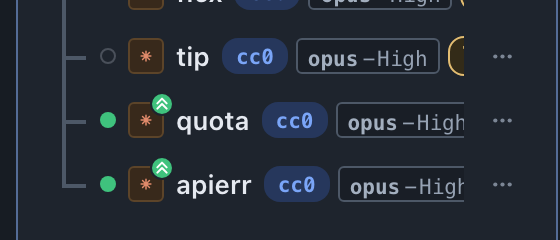
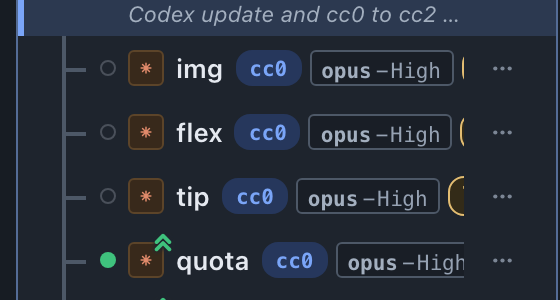
fix(web): 子 agent 列整組一起左右滑；更新記號只留綠色 chevron
使用者：一列一列各自滑看不出整組資訊；記號不要底色圓。同組列的 scrollLeft 同步，
滾輪橫捲在容器上統一分配，短列不會先撞底拖住長列。

Claude-Session: https://claude.ai/code/session_01DbWMWs7JupGCqnYfVQYsUr

diff --git a/web/src/lib/kidsScroll.ts b/web/src/lib/kidsScroll.ts
@@ -1,0 +1,34 @@
+/**
+ * 子 agent 列的左右滑要「整組一起」（2026-09-10 使用者）：每列自己是一個捲動區（燈號、樹線、
+ * 選單鈕才能固定不動），但捲動量在同一個 `.bot-kids` 裡同步。
+ *
+ * - 手指／捲軸捲某一列 → `syncKidsScroll` 把同組其他列推到同一個 scrollLeft。
+ * - 滾輪橫捲在容器上攔下來自己分配（`wheelKidsScroll`）：不然滾在較短的那列會先撞到它的
+ *   底、拖著整組一起停，看不完最長那列。
+ */
+const SEL = '.bot-row.compact > .bot-main'
+
+export function syncKidsScroll(e: { currentTarget: HTMLElement }) {
+  const me = e.currentTarget
+  const kids = me.closest('.bot-kids')
+  if (!kids) return
+  const x = me.scrollLeft
+  for (const el of kids.querySelectorAll<HTMLElement>(SEL)) {
+    if (el !== me && Math.abs(el.scrollLeft - x) > 0.5) el.scrollLeft = x
+  }
+}
+
+export function wheelKidsScroll(e: { currentTarget: HTMLElement; deltaX: number; deltaY: number; shiftKey: boolean; preventDefault: () => void }) {
+  // 只接橫向：shift+滾輪在 mac 會給 deltaX，trackpad 橫滑也是 deltaX。直向留給側欄自己捲。
+  const dx = e.deltaX !== 0 ? e.deltaX : e.shiftKey ? e.deltaY : 0
+  if (dx === 0) return
+  const rows = [...e.currentTarget.querySelectorAll<HTMLElement>(SEL)]
+  if (rows.length === 0) return
+  const max = Math.max(...rows.map((el) => el.scrollWidth - el.clientWidth))
+  if (max <= 0) return
+  const cur = Math.max(...rows.map((el) => el.scrollLeft))
+  const next = Math.min(max, Math.max(0, cur + dx))
+  if (next === cur) return
+  e.preventDefault()
+  for (const el of rows) el.scrollLeft = next
+}

diff --git a/web/src/components/Sidebar.tsx b/web/src/components/Sidebar.tsx
@@ -42,9 +42,9 @@ import { UpdateAllBanner } from './UpdateAllBanner'
 import { ApiModelFields } from './ModelPicker'
 import { TeamNodes } from './TeamNodes'
 import { InstallToolButton } from './Tools'
-
 import { UpgradeIcon } from './UpgradeIcon'
 import { runtimeKnown } from '../lib/runtimeDrift'
+import { syncKidsScroll, wheelKidsScroll } from '../lib/kidsScroll'
 
 function ConnBadge({ socket, connected }: { socket: SocketStatus; connected: boolean }) {
   const label =
@@ -305,7 +305,7 @@ function BotRow({
           !{unread > 99 ? '99+' : unread}
         </span>
       ) : null}
-      <span className="bot-main">
+      <span className="bot-main" onScroll={compact ? syncKidsScroll : undefined}>
         <span className="bot-ident">
           {/* claude 有新版等著重啟套用時的小記號，掛在 kind icon 的右上角（2026-09-10 使用者：
               放這裡、用綠色）。只是提示——真正點得下去的那顆在 header（`UpdateBadge`）。 */}
@@ -1262,7 +1262,7 @@ export function Sidebar() {
                         onStep={step}
                       />
                       {shut || kids.length === 0 ? null : (
-                        <div className="bot-kids" role="group" aria-label={`${b.name} 的 ${kids.length} 個子 agent`}>
+                        <div className="bot-kids" role="group" aria-label={`${b.name} 的 ${kids.length} 個子 agent`} onWheel={wheelKidsScroll}>
                           {kids.map((c, i) => (
                             <div key={c.id} className={`bot-child${i === kids.length - 1 ? ' last' : ''}`}>
                               <BotRow

diff --git a/web/src/styles.css b/web/src/styles.css
@@ -4845,8 +4845,8 @@ p.project-quota-hidden {
   cursor: default;
 }
 
-/* 側欄的「待升級」記號：掛在 kind icon 的右上角、綠色小圓（2026-09-10 使用者），裡面是跟標題列
-   `.update-badge` 同一個雙 chevron。真正的按鈕在 header，這裡只是提示。 */
+/* 側欄的「待升級」記號：掛在 kind icon 的右上角，只有一個綠色的雙 chevron、沒有底（2026-09-10
+   使用者）。真正的按鈕在 header，這裡只是提示。 */
 .bot-kind-wrap {
   position: relative;
   flex: none;
@@ -4867,9 +4867,13 @@ p.project-quota-hidden {
   line-height: 1;
   cursor: help;
   z-index: 1;
+  /* 描一圈面板色的邊，壓在 icon 邊框上還看得清楚。 */
+  filter: drop-shadow(0 0 1px var(--bg-panel)) drop-shadow(0 0 1px var(--bg-panel));
 }
-.bot-row.selected .bot-update-dot {
-  border-color: var(--bg-active);
+.bot-update-dot .upgrade-icon {
+  width: 11px;
+  height: 11px;
+  stroke-width: 4;
 }
 
 /* 「回合被中斷（API 錯誤）」——SPEC §4.3a。

diff --git a/docs/UI-DECISIONS.md b/docs/UI-DECISIONS.md
@@ -797,8 +797,9 @@ AGM 總管那批改動曾在側欄列與對話標頭加角色標籤（`子 worke
 ## 子 agent 列整段左右滑（2026-09-10）
 先是手機 chip 那排改成可滑（c6ac9b0），再升到桌面；使用者再改：**不只 chip，kind logo 與名字也一起滑**，
 固定不動的只有左邊樹線、燈號與右邊選單鈕。所以滑動容器是 `.bot-row.compact .bot-main`，裡面名字
-不截尾、chip 不縮、捲軸藏起來、列高不變。手機不再另外限制名字寬度。
+不截尾、chip 不縮、捲軸藏起來、列高不變。**同一組子列要一起滑**（使用者再改）：`lib/kidsScroll.ts`
+把 scrollLeft 在同一個 `.bot-kids` 裡同步，滾輪橫捲則在容器上攔下來統一分配，短列不會拖住長列。手機不再另外限制名字寬度。
 
 ## 側欄的「可更新」記號掛在 kind icon 右上角、綠色（2026-09-10）
-原本是名字後面一顆 accent 色的小方塊。使用者改：放 kind icon 的右上角、用綠色（`--lamp-green`）小圓，
-裡面仍是雙 chevron。名字那排少一顆東西，且「這顆 agent 本身有新版」跟 icon 貼在一起語意更直接。
+原本是名字後面一顆 accent 色的小方塊。使用者改：放 kind icon 的右上角、用綠色（`--lamp-green`）的雙 chevron，
+**不要底色圓**（使用者再改）。名字那排少一顆東西，且「這顆 agent 本身有新版」跟 icon 貼在一起語意更直接。
